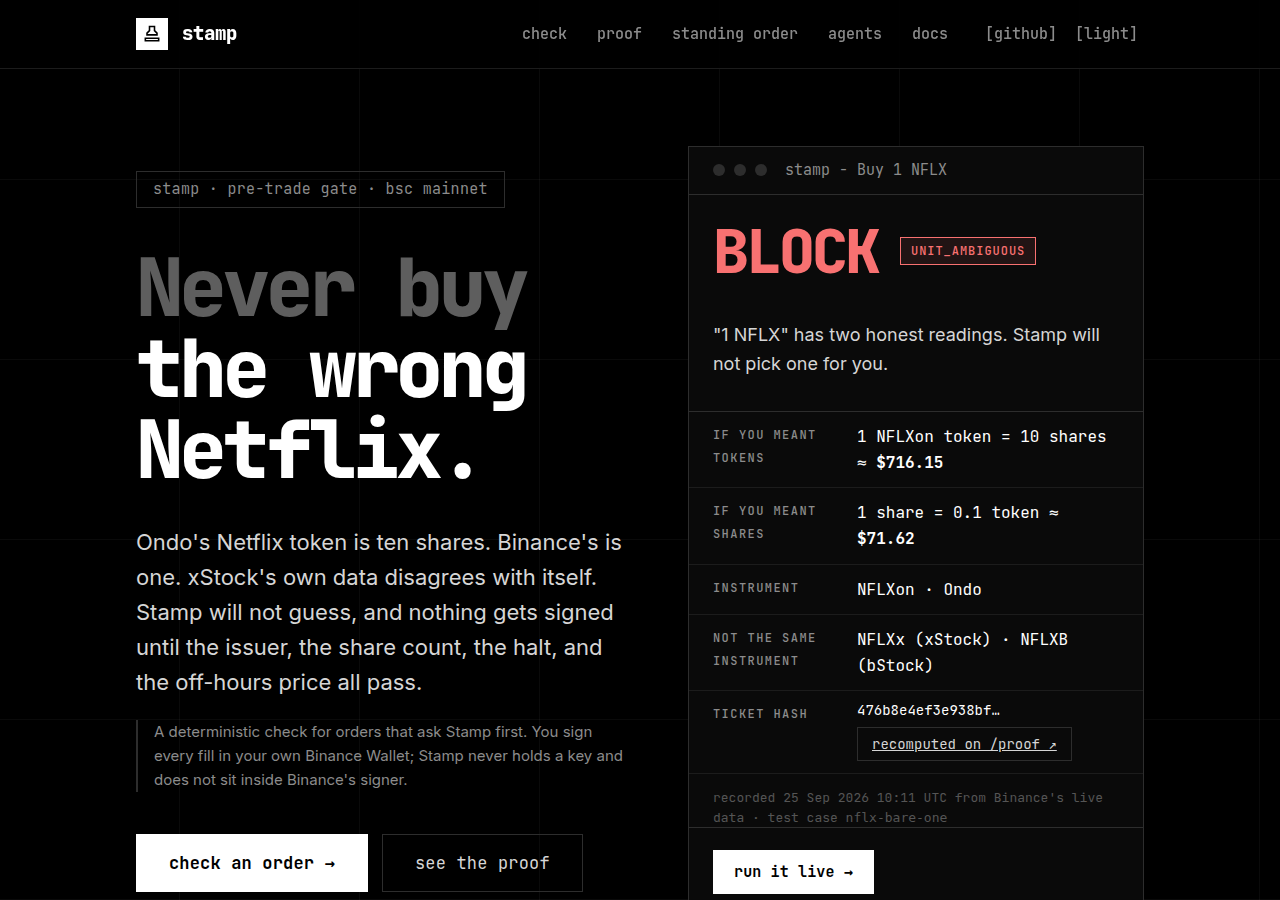
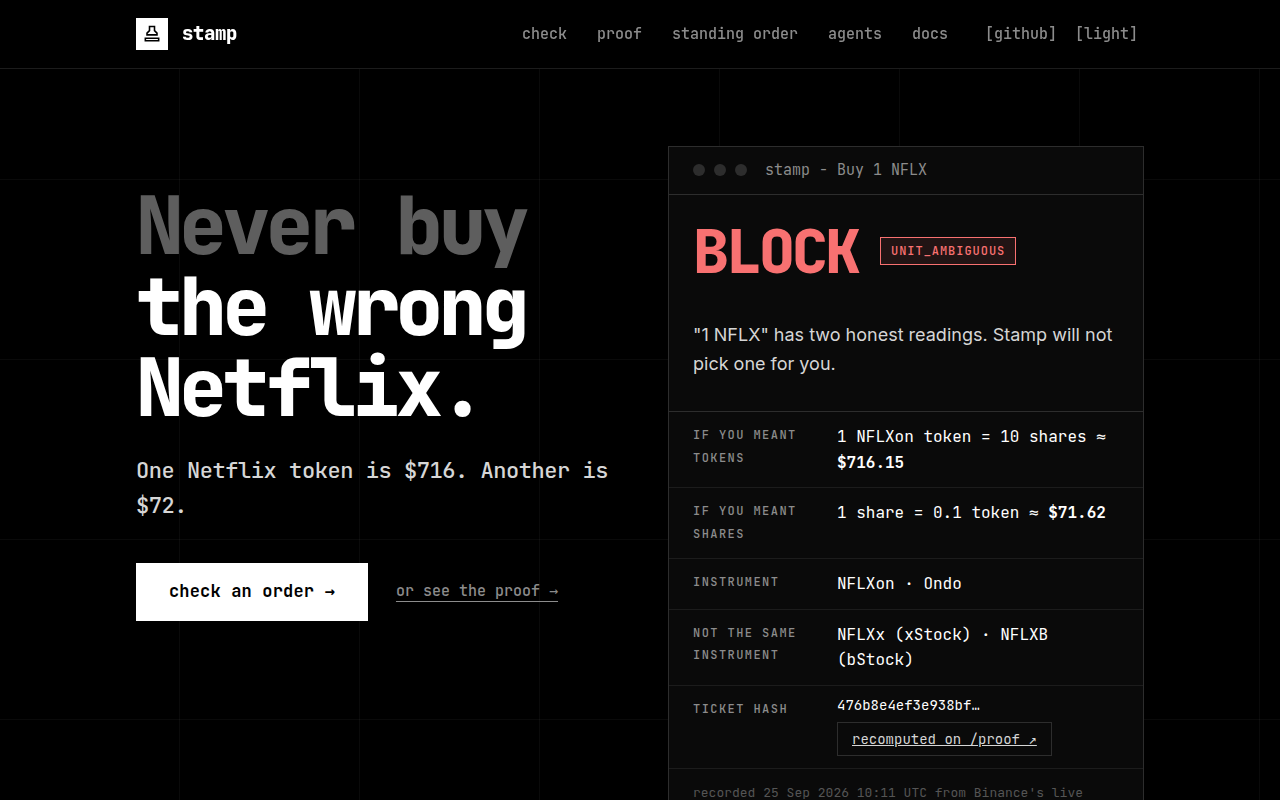
Cut the homepage to headline, one line, the ticket and one button
The hero said the same thing four times before the ticket on a phone. Now:
'Never buy the wrong Netflix.', 'One Netflix token is $716. Another is $72.',
the recorded BLOCK ticket, then 'check an order'. The four-check panel, how
it works and the page cards are gone from the homepage; they live on
/docs/checks, /docs/limits, /check and in the header. The figures stay.

Claude-Session: https://claude.ai/code/session_014FJ8r8YCw1s54sCPfzoypB

diff --git a/apps/web/index.html b/apps/web/index.html
@@ -15,52 +15,16 @@
       <section class="hero">
         <div class="wrap hero-grid">
           <div class="hero-copy">
-            <span class="tag">stamp · pre-trade gate · bsc mainnet</span>
             <h1 class="headline h1"><span class="dim">Never buy</span><br />the wrong Netflix.</h1>
-            <p class="lede">
-              Ondo's Netflix token is ten shares. Binance's is one. xStock's own data disagrees with itself. Stamp will
-              not guess, and nothing gets signed until the issuer, the share count, the halt, and the off-hours price
-              all pass.
-            </p>
-            <p class="hero-note">
-              A deterministic check for orders that ask Stamp first. You sign every fill in your own Binance Wallet;
-              Stamp never holds a key and does not sit inside Binance's signer.
-            </p>
-            <div class="btn-row">
-              <a class="btn" href="/check/">check an order →</a>
-              <a class="btn ghost" href="/proof/">see the proof</a>
-            </div>
+            <p class="lede">One Netflix token is $716. Another is $72.</p>
           </div>
           <div class="hero-ticket">
             <!-- @nflx-ticket -->
           </div>
-        </div>
-      </section>
-
-      <section class="wrap" id="checks" aria-labelledby="checks-title">
-        <div class="panel">
-          <div class="panel-bar"><span class="dots" aria-hidden="true"><i></i><i></i><i></i></span><span id="checks-title">stamp - the four checks</span></div>
-          <div class="stack-row">
-            <span class="stack-label">Issuer</span>
-            <span class="stack-value">never switched<small>NVDAon, NVDAx and NVDAB are different legal products. A cheaper sibling is shown, never bought.</small></span>
-            <span class="live-dot" aria-hidden="true"></span>
+          <div class="hero-actions">
+            <a class="btn" href="/check/">check an order →</a>
+            <a class="text-link" href="/proof/">or see the proof →</a>
           </div>
-          <div class="stack-row">
-            <span class="stack-label">Shares</span>
-            <span class="stack-value">never assumed to be 1<small>Tokens carry a multiplier. "Buy 1 NFLX" is blocked until you say $ or shares.</small></span>
-            <span class="live-dot" aria-hidden="true"></span>
-          </div>
-          <div class="stack-row">
-            <span class="stack-label">Halt</span>
-            <span class="stack-value">corporate actions block<small>Splits, dividends, mergers and session pauses stop the order. Missing data is never "trading".</small></span>
-            <span class="live-dot" aria-hidden="true"></span>
-          </div>
-          <div class="stack-row">
-            <span class="stack-label">Price</span>
-            <span class="stack-value">no overpaying off-hours<small>Price per share vs the real stock. Rich while the market is shut: parked, with the overpay in dollars.</small></span>
-            <span class="live-dot" aria-hidden="true"></span>
-          </div>
-          <div class="panel-foot">● verdict is code · no LLM decides · every ticket is hashed and recomputable · <a href="/docs/checks/">all checks →</a></div>
         </div>
       </section>
 
@@ -85,44 +49,6 @@
         </div>
       </section>
 
-      <section class="section" aria-labelledby="how-title">
-        <div class="wrap">
-          <div class="section-head">
-            <p class="eyebrow">how it works</p>
-            <h2 class="headline h2" id="how-title"><span class="dim">Say it plainly.</span><br />Code decides. You sign.</h2>
-          </div>
-          <ol class="steps">
-            <li>
-              <b>You say the order.</b>
-              <span>"Buy $20 of NVIDIA", the way you'd say it. A fixed grammar reads it - no model guesses what you meant.</span>
-            </li>
-            <li>
-              <b>Stamp runs the checks.</b>
-              <span>Live Binance data, one issuer, the real share count, halts, the off-hours premium. ALLOW, WARN or BLOCK, with a hash anyone can recompute.</span>
-            </li>
-            <li>
-              <b>You sign in Binance Wallet.</b>
-              <span>Only an ALLOW gets a quote. The quote and the transaction are checked against the ticket, then your wallet asks you. Stamp never holds a key.</span>
-            </li>
-          </ol>
-        </div>
-      </section>
-
-      <section class="section" aria-labelledby="where-title">
-        <div class="wrap">
-          <div class="section-head">
-            <p class="eyebrow">where to go</p>
-            <h2 class="headline h2" id="where-title"><span class="dim">One gate,</span><br />five ways in.</h2>
-          </div>
-          <div class="cards">
-            <a class="card" href="/check/"><span class="card-k">01 · check</span><b>Check an order</b><span>Type it, get a verdict and a ticket. Sign an ALLOW in Binance Wallet.</span></a>
-            <a class="card" href="/proof/"><span class="card-k">02 · proof</span><b>Replay &amp; verify</b><span>Every recorded ticket recomputed on this server. Paste any hash to check it.</span></a>
-            <a class="card" href="/standing/"><span class="card-k">03 · standing</span><b>Standing order</b><span>Buy when it's fair, park when it isn't. Re-checked every ten minutes.</span></a>
-            <a class="card" href="/agents/"><span class="card-k">04 · agents</span><b>For agents</b><span>The same gate over HTTP, MCP and a paid x402 route on BNB Agent Studio.</span></a>
-            <a class="card" href="/docs/"><span class="card-k">05 · docs</span><b>Docs</b><span>Checks and reason codes, policy, the API, how to verify, and the honest limits.</span></a>
-          </div>
-        </div>
-      </section>
     </main>
 
     <!-- @footer -->

diff --git a/apps/web/src/styles.css b/apps/web/src/styles.css
@@ -1134,14 +1134,6 @@ td.hash {
   max-width: 40ch;
 }
 
-.hero-note {
-  max-width: 52ch;
-  margin: 20px 0 0;
-  padding-left: 16px;
-  border-left: 2px solid var(--line-strong);
-  font-size: 15px;
-  color: var(--muted);
-}
 
 @media (min-width: 1040px) {
   .hero-grid {
@@ -1708,4 +1700,77 @@ pre code,
 
 .legend .verdict {
   font-size: 28px;
+}
+
+/* home hero: headline, ticket, button. Stacked on phones; ticket on the right on wide screens. */
+.hero-grid {
+  gap: 32px;
+}
+
+.hero-copy .lede {
+  margin-top: 24px;
+  font-family: var(--mono);
+  font-weight: 500;
+  letter-spacing: -0.02em;
+}
+
+.hero-actions {
+  display: flex;
+  flex-wrap: wrap;
+  align-items: center;
+  gap: 16px 28px;
+}
+
+.text-link {
+  font: 500 15px/1 var(--mono);
+  color: var(--muted);
+  text-underline-offset: 5px;
+}
+
+.text-link:hover {
+  color: var(--fg);
+}
+
+.ticket-foot a {
+  color: var(--muted);
+  text-underline-offset: 4px;
+}
+
+.ticket-static .ticket {
+  padding-bottom: 18px;
+}
+
+@media (max-width: 640px) {
+  .hero {
+    padding-top: 36px;
+  }
+  .hero-actions .btn {
+    width: 100%;
+  }
+  .hero-actions {
+    justify-content: center;
+  }
+}
+
+@media (min-width: 1040px) {
+  .hero-grid {
+    grid-template-columns: minmax(0, 1fr) minmax(0, 1fr);
+    grid-template-areas:
+      "copy ticket"
+      "actions ticket";
+    grid-template-rows: auto 1fr;
+    column-gap: 56px;
+    row-gap: 40px;
+  }
+  .hero-copy {
+    grid-area: copy;
+    align-self: end;
+  }
+  .hero-ticket {
+    grid-area: ticket;
+  }
+  .hero-actions {
+    grid-area: actions;
+    align-self: start;
+  }
 }

diff --git a/apps/web/vite.config.ts b/apps/web/vite.config.ts
@@ -51,8 +51,7 @@ function nflxTicket(): string {
       ${fact("not the same instrument", esc(others))}
       ${fact("ticket hash", `<span class="hash-row"><code class="hash-short" title="${t.hash}">${t.hash.slice(0, 16)}…</code><a class="chip" href="/proof/?set=golden">recomputed on /proof ↗</a></span>`)}
     </dl>
-    <p class="ticket-foot">recorded ${esc(when)} UTC from Binance's live data · test case <code>nflx-bare-one</code></p>
-    <div class="ticket-actions"><a class="btn small" href="/check/?q=${encodeURIComponent(t.intent.raw)}">run it live →</a></div>
+    <p class="ticket-foot">recorded ${esc(when)} UTC from Binance's live data · <a href="/check/?q=${encodeURIComponent(t.intent.raw)}">run it live ↗</a></p>
   </div>
 </div>`;
 }
